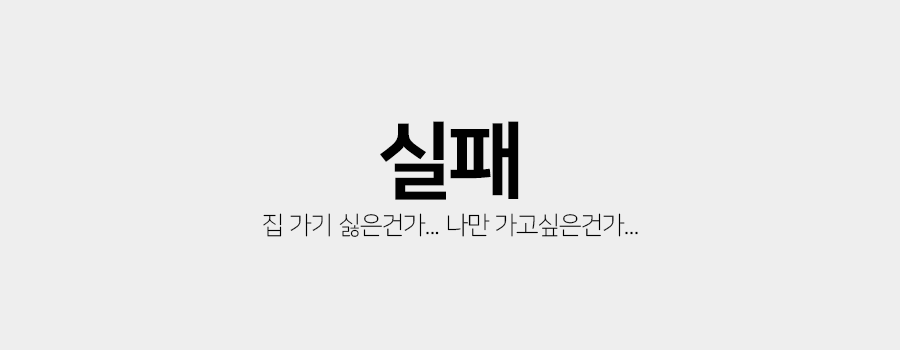
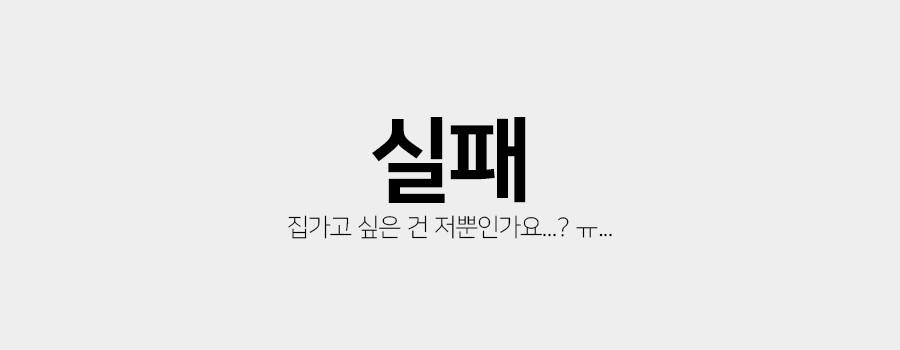
🔧 정말 완성
이미지가 들어가있지 않은 상태로 커밋해서 이미지가 다 지워졌다... ㅠㅠ 다시 이미지 만듬...

Changed region(s): [[0.28, 0.3143, 0.6844, 0.6857]]

diff --git a/javaproject/WantHome7/src/wantHome/WantHome.java b/javaproject/WantHome7/src/wantHome/WantHome.java
@@ -167,7 +167,7 @@ public class WantHome extends JFrame {
 			public void mousePressed(MouseEvent e) {
 				startButton.setVisible(false);
 				settingButton.setVisible(false);
-				soundButton.setBounds(170, 450, 150, 70);
+				soundButton.setBounds(190, 420, 150, 70);
 				soundButton.setBorderPainted(false);
 				soundButton.setContentAreaFilled(false);
 				soundButton.setFocusPainted(false);
@@ -219,8 +219,8 @@ public class WantHome extends JFrame {
 						introMusic.close();
 						soundButton.setVisible(false);
 						houseButton.setVisible(false);
-						
-						new GameMain();
+						introBackground = new ImageIcon(Main.class.getResource("../images/mainImage.png")).getImage();
+						new WantHome();
 						dispose();
 						
 					}
@@ -231,7 +231,7 @@ public class WantHome extends JFrame {
 			}
 		});
 		add(settingButton);
-
+		
 		menuBar.setBounds(0, 0, 900, 30);
 		menuBar.addMouseListener(new MouseAdapter() {
 			@Override

diff --git a/javaproject/WantHome7/src/wantHome/Success.java b/javaproject/WantHome7/src/wantHome/Success.java
@@ -114,6 +114,7 @@ class Success extends JFrame{
 				GameStart.score1 = 0;
 				GameStart.score2 = 0;
 				GameStart.street = 7000;
+				//WantHome.introBackground = new ImageIcon(Main.class.getResource("../images/mainImage.png")).getImage();
 			}
 		});        
         panel.add(againButton);

diff --git a/javaproject/WantHome7/src/wantHome/Fail.java b/javaproject/WantHome7/src/wantHome/Fail.java
@@ -95,6 +95,7 @@ class Fail extends JFrame{
 				GameStart.score1 = 0;
 				GameStart.score2 = 0;
 				GameStart.street = 7000;
+				//WantHome.introBackground = new ImageIcon(Main.class.getResource("../images/mainImage.png")).getImage();
 			}
 		});        
         panel.add(againButton);
